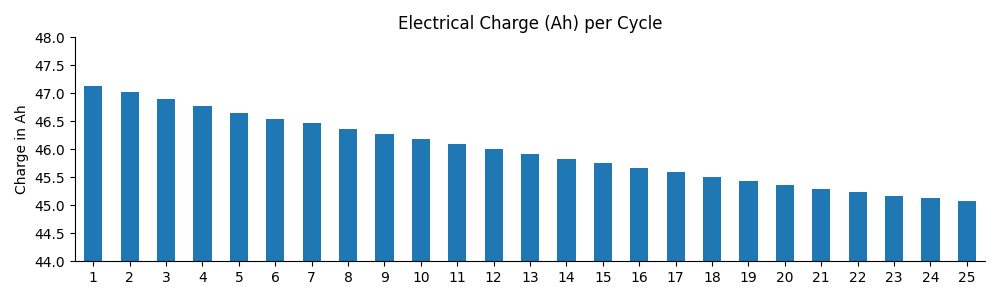
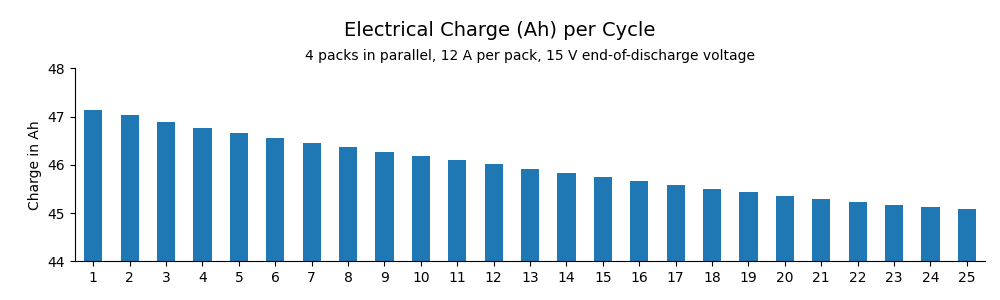
📝 add README files

diff --git a/projects/UN38.3/README.md b/projects/UN38.3/README.md
@@ -1,0 +1,77 @@
+# UN38.3 Battery Aging
+
+This project contains data and a summary of the setup to age 4 battery packs for UN38.3 testing.
+
+## Purpose
+
+The UN has published a [Manual of Tests and Criteria][un] for transport of dangerous goods.
+This includes Li-Ion battery packs, for which test criteria are specified in chapter 38.3.
+Four batteries need to be tested after 25 cycles, ending in fully charged cycles.
+
+This project contains the description of a setup used to age four battery packs for testing,
+along with raw measurement data, the data analysis notebook and a summary of the results.
+
+[un]: https://unece.org/transport/standards/transport/dangerous-goods/un-manual-tests-and-criteria-rev8-2023
+
+## Setup
+
+The following battery packs were used for testing:
+
+| Battery Pack | Cell Pack | BMS |
+| ------------ | --------- | --- |
+| [pack-1] | 1591 1836 | 7685 7468 |
+| [pack-2] | 7266 4758 | 2155 6057 |
+| [pack-3] | 7948 4127 | 8734 2253 |
+| [pack-4] | 5874 5252 | 8464 7534 |
+
+Each pack has the following electrical properties:
+
+| Property | Value |
+| ------- | ----- |
+| Cell Type | [Molicel P42A][p42a] |
+| Cell Configuration | 6S3P |
+| Nominal Capacity | 12.6 Ah |
+| Nominal Voltage | 21.6 V |
+| End-of-Charge Voltage | 25.2 V |
+| End-of-Discharge Voltage | 15.0 V |
+
+All four packs were connected in parallel to a [Delta Elektronika SM17-CP-450][sm15k] power supply.
+It was programmed with the sequence [BC6S](./bc6s.s) to repeatedly dischage and charge the packs
+at a constant current of 12 A per pack. The sequence ends after 25 cycles.
+
+![Aging Profile](./aging-profile.png)
+
+The power supply's current and voltage were sampled at 10 Hz and logged to a database.
+
+[pack-1]: https://www.notion.so/starcopter/Aging-test-1-8-battery-packs-5-12685df4d93280598d6ec2279e516efc?pvs=4
+[pack-2]: https://www.notion.so/starcopter/Aging-test-2-8-battery-packs-6-12685df4d932808abd0bdc71812be9b2?pvs=4
+[pack-3]: https://www.notion.so/starcopter/Aging-test-3-8-battery-packs-7-12685df4d93280c58d52e21cd9657493?pvs=4
+[pack-4]: https://www.notion.so/starcopter/Aging-test-4-8-battery-packs-8-12685df4d932805091d3d0903310ed68?pvs=4
+[p42a]: https://www.molicel.com/wp-content/uploads/INR21700P42A-V4-80092.pdf
+[sm15k]: https://www.delta-elektronika.nl/products/sm15k-series
+
+## Data Analysis
+
+_All raw data from the aging test is available for review in the [source.parquet](./source.parquet) file._
+
+From the current measurements, the start and end timestamps of each charge and discharge cycle were extracted.
+Over each cycle, the electrical charge (Ampere-hours) and energy (Watt-hours) were calculated by numerical integration.
+
+All code for analysis in the accompanying [Analysis.ipynb](./Analysis.ipynb) notebook.
+
+## Results
+
+For each cycle, the following properties were calculated and are available in the [cycles.csv](./cycles.csv) file:
+
+- `dsg_duration`: Duration of the discharge phase.
+- `dsg_charge_Ah`: Electrical charge taken from the battery during discharge.
+- `dsg_energy_Wh`: Electrical energy taken from the battery during discharge.
+- `chg_duration`: Duration of the charge phase.
+- `chg_charge_Ah`: Electrical charge added to the battery during charge.
+- `chg_energy_Wh`: Electrical energy added to the battery during charge.
+- `energy_loss_Wh`: Energy difference between discharge and charge phase.
+
+As expected, the available electrical charge decreases with increasing cycles.
+This is the aging effect this test was intended to cause.
+
+![Electrical Charge per Cycle](./charge-cycles.png)

diff --git a/README.md b/README.md
@@ -1,0 +1,20 @@
+# Pack Cycle Analysis
+
+This repository contains battery pack cycling data, and tools/scripts to analyze and parse the data.
+
+## Repository Layout
+
+Each project or test run is contained in its own folder under `projects/`.
+Currently there is only one project, `UN38.3`.
+
+## Setup Instructions
+
+1. Ensure you have [uv](https://docs.astral.sh/uv/) installed.
+2. Clone this repository: `git clone https://github.com/starcopter/pack-cycle-analysis.git`
+3. Navigate to the project directory: `cd pack-cycle-analysis`
+4. Install the project dependencies: `uv sync`
+5. Open the project in VSCode, and start working!
+
+## Usage
+
+Refer to the `Analysis.ipynb` notebook in the `projects/UN38.3/` directory for data analysis examples and visualizations.
